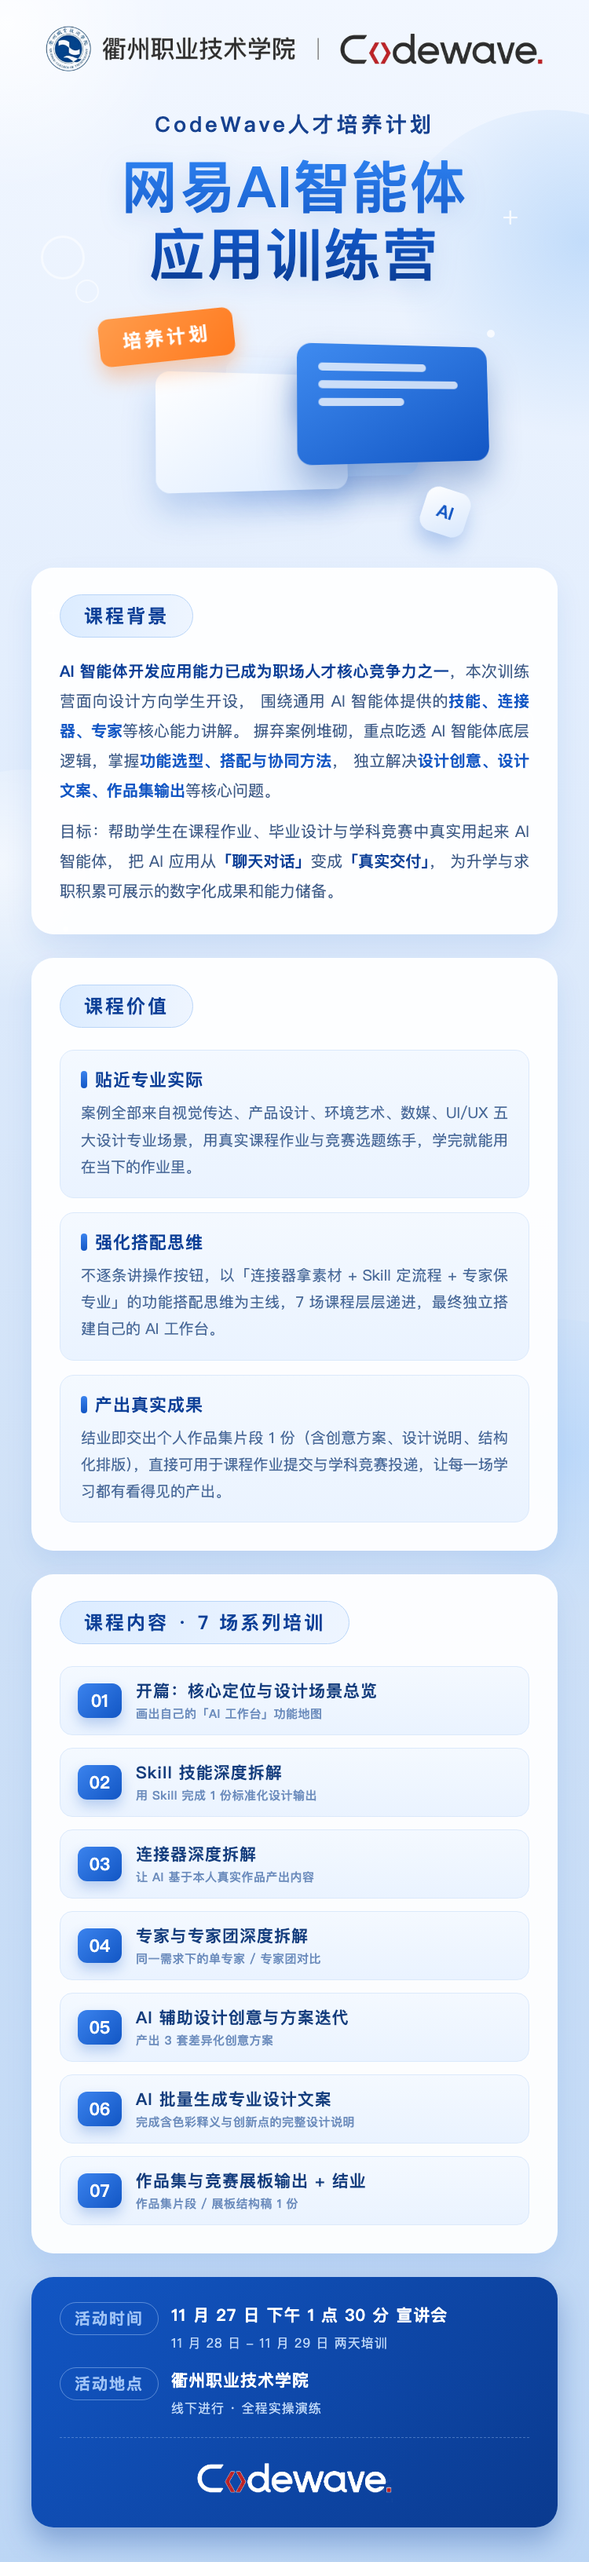
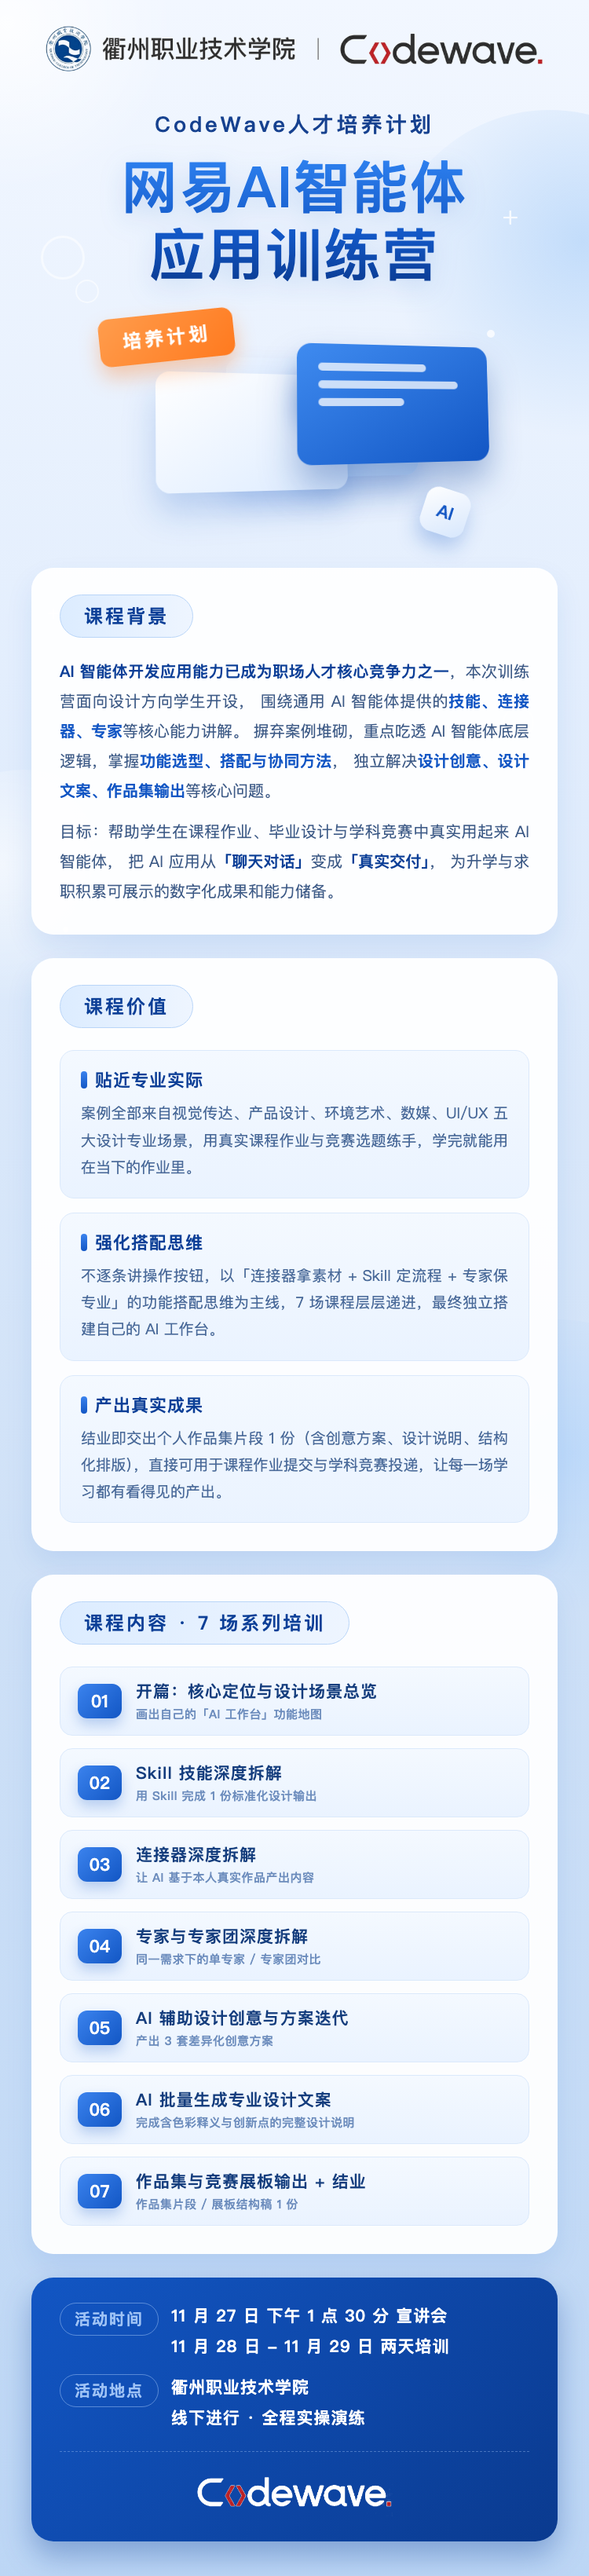
assets: 活动时间两行字体样式统一

diff --git a/assets/images/2026-训练营宣传长图.html b/assets/images/2026-训练营宣传长图.html
@@ -116,7 +116,7 @@
   .info .lab{flex:0 0 auto;font-size:20px;font-weight:700;letter-spacing:2px;color:#9fc3f5;
     border:1px solid rgba(159,195,245,.5);border-radius:999px;padding:6px 18px}
   .info .val{font-size:21px;font-weight:700;line-height:1.65;letter-spacing:1px}
-  .info .val small{display:block;font-size:16px;font-weight:400;color:#bcd6f7;margin-top:4px;letter-spacing:1px}
+  .info .val small{display:block;font-size:21px;font-weight:700;color:inherit;margin-top:4px;letter-spacing:1px}
   .info .note{margin-top:20px;border-top:1px dashed rgba(159,195,245,.45);padding-top:16px;
     font-size:17px;color:#bcd6f7;letter-spacing:1px}
 
